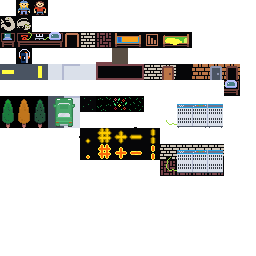
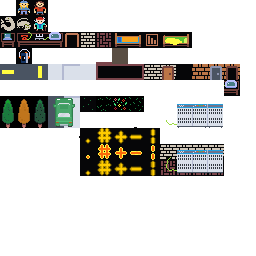
Add old lady event

Changed region(s): [[0.3125, 0.625, 0.625, 0.6875], [0.125, 0.0625, 0.1875, 0.125], [0.375, 0.5, 0.4062, 0.5312]]

diff --git a/src/ts/Input.ts b/src/ts/Input.ts
@@ -9,17 +9,22 @@ export default {
 	inputEnabled: true,
 	init: function(game){
 		this.game = game;
-		ut.initInput(this.onKeyDown.bind(this));
+		ut.initInput(this.onKeyDown.bind(this), this.onKeyUp.bind(this));
 		this.mode = 'TITLE';
 	},
 	movedir: { x: 0, y: 0 },
-	onKeyDown: function(k){
+	onKeyUp: function(k){
 		if (!this.inputEnabled)
 			return;
 		if (this.mode === 'TITLE'){
 			if (k === ut.KEY_SPACE){
 				this.game.newGame();
 				this.mode = 'MOVEMENT';
+			}
+		} else if (this.mode === 'EVENT'){
+			const options = this.game.display.eventOptions;
+			if (k >= ut.KEY_A && k <= ut.KEY_A + options.length){
+				this.game.display.selectOption(k - ut.KEY_A);
 			}
 		} else if (this.mode === 'MOVEMENT'){
 			if (k === ut.KEY_COMMA){
@@ -37,6 +42,48 @@ export default {
 				this.game.display.showInventory();
 				return;
 			}
+		} else if (this.mode === 'INVENTORY'){
+			if (k === ut.KEY_ESCAPE){
+				this.game.display.hideInventory();
+				this.mode = 'MOVEMENT';
+			} else if (k === ut.KEY_D){
+				this.game.player.tryDrop(this.selectedItem);
+				this.game.display.hideInventory();
+				this.mode = 'MOVEMENT';
+			} else if (k === ut.KEY_ENTER || k === ut.KEY_U){
+				if (this.selectedItem.def.targetted || this.selectedItem.def.type.targetted){
+					this.game.display.message("Select a direction.");
+					this.game.display.hideInventory();
+					this.mode = 'SELECT_DIRECTION';
+					this.directionAction = 'USE_ITEM';
+				} else {
+					this.game.player.tryUse(this.selectedItem);
+					this.game.display.hideInventory();
+					this.mode = 'MOVEMENT';
+				}
+			}
+		} else if (this.mode === 'SELECT_DIRECTION'){
+			if (k === ut.KEY_ESCAPE){
+				this.mode = 'INVENTORY';
+				this.game.display.showInventory();
+				this.game.display.message("Cancelled.");
+				return;
+			}
+			this.movedir.x = 0;
+			this.movedir.y = 0;
+			if (k === ut.KEY_LEFT || k === ut.KEY_H) this.movedir.x = -1;
+			else if (k === ut.KEY_RIGHT || k === ut.KEY_L) this.movedir.x = 1;
+			else if (k === ut.KEY_UP || k === ut.KEY_K) this.movedir.y = -1;
+			else if (k === ut.KEY_DOWN || k === ut.KEY_J) this.movedir.y = 1;
+			else return;
+			this.game.player.tryUse(this.selectedItem, this.movedir.x, this.movedir.y);
+			this.mode = 'MOVEMENT';
+		}
+	},
+	onKeyDown: function(k){
+		if (!this.inputEnabled)
+			return;
+		if (this.mode === 'MOVEMENT'){
 			this.movedir.x = 0;
 			this.movedir.y = 0;
 			if (k === ut.KEY_LEFT || 
@@ -73,10 +120,7 @@ export default {
 			this.inputEnabled = false;
 			this.game.player.tryMove(this.movedir);
 		} else if (this.mode === 'INVENTORY'){
-			if (k === ut.KEY_ESCAPE){
-				this.game.display.hideInventory();
-				this.mode = 'MOVEMENT';
-			} else if (k === ut.KEY_UP || k === ut.KEY_K){
+			if (k === ut.KEY_UP || k === ut.KEY_K){
 				if (this.selectedItemIndex > 0){
 					this.selectedItemIndex --;
 				}
@@ -88,38 +132,7 @@ export default {
 				}
 				this.selectedItem = this.game.player.items[this.selectedItemIndex];
 				this.game.display.showInventory();
-			} else if (k === ut.KEY_D){
-				this.game.player.tryDrop(this.selectedItem);
-				this.game.display.hideInventory();
-				this.mode = 'MOVEMENT';
-			} else if (k === ut.KEY_ENTER || k === ut.KEY_U){
-				if (this.selectedItem.def.targetted || this.selectedItem.def.type.targetted){
-					this.game.display.message("Select a direction.");
-					this.game.display.hideInventory();
-					this.mode = 'SELECT_DIRECTION';
-					this.directionAction = 'USE_ITEM';
-				} else {
-					this.game.player.tryUse(this.selectedItem);
-					this.game.display.hideInventory();
-					this.mode = 'MOVEMENT';
-				}
 			}
-		} else if (this.mode === 'SELECT_DIRECTION'){
-			if (k === ut.KEY_ESCAPE){
-				this.mode = 'INVENTORY';
-				this.game.display.showInventory();
-				this.game.display.message("Cancelled.");
-				return;
-			}
-			this.movedir.x = 0;
-			this.movedir.y = 0;
-			if (k === ut.KEY_LEFT || k === ut.KEY_H) this.movedir.x = -1;
-			else if (k === ut.KEY_RIGHT || k === ut.KEY_L) this.movedir.x = 1;
-			else if (k === ut.KEY_UP || k === ut.KEY_K) this.movedir.y = -1;
-			else if (k === ut.KEY_DOWN || k === ut.KEY_J) this.movedir.y = 1;
-			else return;
-			this.game.player.tryUse(this.selectedItem, this.movedir.x, this.movedir.y);
-			this.mode = 'MOVEMENT';
 		}
 	}
 }

diff --git a/src/ts/model/Player.ts b/src/ts/model/Player.ts
@@ -1,3 +1,5 @@
+import Being from "./Being.class";
+
 const ut = (window as any).ut;
 
 /**
@@ -25,7 +27,39 @@ export default {
 			this.visible[j] = [];
 		}
 	},
-	tryMove: function(dir) {
+	interactWithBeing (being: Being) {
+		if (being.eventId === 'OLD_LADY') {
+			if (being.interacted) {
+				return;
+			}
+			this.game.display.showEvent('You see an old lady, it looks like she has been trying to cross the street for hours. What will you do?',
+				[
+					{
+						text: 'Help her cross the street (5 minutes)',
+						cost: 5,
+						action: () => {
+							this.game.display.textBox.setText('You help the old lady cross the street, a small act of kindness?');
+							being.moveTo(0, 4);
+							this.game.display.refresh();
+							being.interacted = true;
+						}
+					},
+					{
+						text: 'Look to the other side and continue walking',
+						action: () => {
+							this.game.display.textBox.setText('Yes. There is no time to lose.');
+						}
+					}
+				]
+			);
+		}
+	},
+	tryMove: function(dir: {x: number, y: number}) {
+		const being = this.game.world.level.getBeing(this.x + dir.x, this.y + dir.y);
+		if (being) {
+			this.interactWithBeing(being);
+			return;
+		}
 		if (!this.game.world.level.canWalkTo(this.x+dir.x, this.y+dir.y)){
 			this.game.input.inputEnabled = true;
 			return;

diff --git a/src/ts/display/pixiDisplay/PixiDisplay.ts b/src/ts/display/pixiDisplay/PixiDisplay.ts
@@ -6,6 +6,7 @@
  */
 
 import { Application, Assets, Texture, Rectangle, Sprite, Text, Container } from 'pixi.js';
+import IEventOption from '../../model/IEventOption';
 import PIXITextBox from './PIXITextBox.class';
 import PixiUtils from './PixiUtils';
 
@@ -100,7 +101,7 @@ export default {
 			fill: config.textColor,
 			align: 'left',
 			wordWrap: true,
-			wordWrapWidth: config.tileSize * config.viewportCountX * 4
+			wordWrapWidth: config.tileSize * config.viewportCountX * 4 - 20
 		});
 		text.position.x = 10;
 		text.position.y = (config.tileSize * config.viewportCountY) / 2 + 96;
@@ -267,5 +268,21 @@ export default {
 	activateNewGame() {
 		this.titleScreenContainer.visible = false;
 		this.mainGameContainer.visible = true;
+	},
+	showEvent (eventText: string, options: IEventOption[]): void {
+		let theText = eventText;
+		options.forEach((o, i) => theText += `\n\n${String.fromCharCode(97 + i)}: ${o.text}`)
+		this.textBox.setText(theText);
+		this.eventOptions = options;
+		this.game.input.inputEnabled = true;
+		this.game.input.mode = 'EVENT';
+	},
+	selectOption (index: number) {
+		const selectedOption = this.eventOptions[index];
+		if (selectedOption?.action) {
+			selectedOption.action();
+		}
+		this.game.input.mode = 'MOVEMENT';
 	}
+
 }

diff --git a/src/ts/data/Maps.data.ts b/src/ts/data/Maps.data.ts
@@ -102,12 +102,19 @@ const levelMaps = {
 			{ char: '2', tile: Tiles.CAR2, exitTo: 'campus' },
 			{ char: '3', tile: Tiles.CAR3 },
 			{ char: '4', tile: Tiles.CAR4 },
+
+			{ char: '9', tile: Tiles.SIDEWALK1, being: Races.OLD_LADY, intent: 'WAIT', eventId: 'OLD_LADY' },
 		],
 		map: [
+			"+..12                          ",
+			"|.]34                          ",
+			"+...+                          ",
 			"|.].|                          ",
-			"+..12   567  56667   5667 567  ",
-			"|.]34   #8#  #8###   ##8# #8#  ",
-			"+...+-+-+--++-+-+-+-+-+--+->-+-+",
+			"+...+                          ",
+			"|.].|                          ",
+			"+...+   567  56667   5667 567  ",
+			"|.].|   #8#  #8###   ##8# #8#  ",
+			"+...+9+-+--++-+-+-+-+-+--+->-+-+",
 			"..]............................",
 			"....=.=.=.=.=.=.=.=.=.=.=.=.=.=",
 			"..]............................",

diff --git a/src/ts/model/Being.class.ts b/src/ts/model/Being.class.ts
@@ -16,6 +16,8 @@ export default class Being {
 	private xPosition: number;
 	private yPosition: number;
 	private intent: string;
+	eventId: string;
+	interacted: boolean;
 
 	get x(): number {
 		return this.xPosition;
@@ -44,6 +46,9 @@ export default class Being {
 			case 'CHASE':
 				this.actChase();
 				break;
+			case 'WAIT':
+				this.actWait();
+				break;
 		}
 	}
 
@@ -55,6 +60,11 @@ export default class Being {
 		}
 		this.moveTo(dx, dy);
 	}
+
+	actWait () {
+		// Do nothing.
+	}
+
 
 	actChase () {
 		var nearestEnemy = this.getNearestEnemy();

diff --git a/src/ts/LevelLoader.ts b/src/ts/LevelLoader.ts
@@ -76,7 +76,8 @@ export default {
 		if (def.being) {
 			var being = new Being(level.game, level, def.being);
 			level.addBeing(being, x, y);
-			being.setIntent('RANDOM');
+			being.setIntent(def.intent || 'RANDOM');
+			being.eventId = def.eventId;
 		}
 		if (def.exitTo) {
 			level.addExit(x, y, def.exitTo, def.tile);

diff --git a/src/ts/model/Level.class.ts b/src/ts/model/Level.class.ts
@@ -71,6 +71,10 @@ export default class Level {
 		return true;
 	}
 
+	getBeing (x: number, y: number): Being {
+		return this.beings[x] ? this.beings[x][y] : null;
+	}
+
 	addExit (x: number, y: number, levelId: string, tile?: any) {
 		if (tile) {
 			if (!this.map[x])

diff --git a/src/ts/data/Races.data.ts b/src/ts/data/Races.data.ts
@@ -13,4 +13,8 @@ export default {
 		name: 'Toy',
 		tilesetData: '2-0'
 	},
+	OLD_LADY: {
+		name: 'Old Lady',
+		tilesetData: '2-1'
+	}
 }

diff --git a/src/ts/model/IEventOption.ts b/src/ts/model/IEventOption.ts
@@ -1,0 +1,5 @@
+export default interface IEventOption {
+	text: string,
+	cost?: number,
+	action?: () => void
+}
